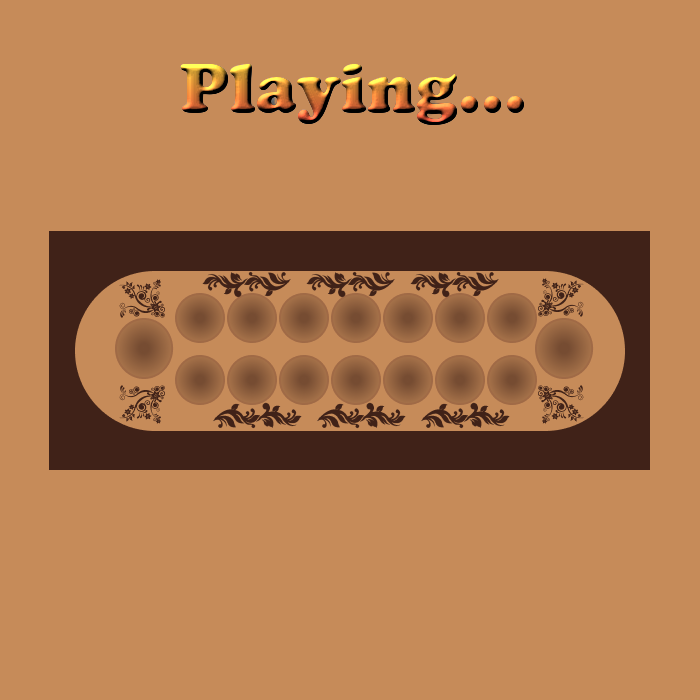
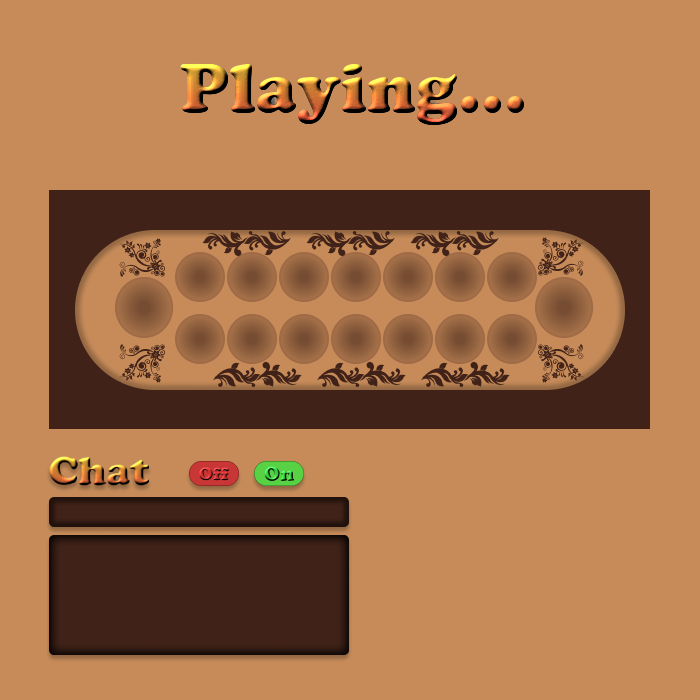
improve gui for chatting

diff --git a/game.py b/game.py
@@ -35,6 +35,7 @@ class Game:
 		self.width = w
 		self.height = h
 		self.animate = False
+		self.brown_color = (198, 139, 89)
 		self.bg_color = (134, 84, 57)
 		self.bg_contrast = (255, 255, 255)
 		self.on_color = (0, 255, 0)
@@ -92,16 +93,16 @@ class Game:
 			# menggambar lingkaran
 			# menggambar jumlah biji
 			if(self.animate == False):
-				self.me.draw(self.canvas.get_canvas(), self.bg_color, 200, 380, 52, 25, 2)
-				self.rival.draw(self.canvas.get_canvas(), self.bg_color, 200, 318, 52, 25, 2)
+				self.me.draw(self.canvas.get_canvas(), self.bg_color, 200, 340, 52, 25, 2)
+				self.rival.draw(self.canvas.get_canvas(), self.bg_color, 200, 278, 52, 25, 2)
 				for i in range(7):
-					self.canvas.draw_text(str(self.me.biji[i]), 32, 190 + (i * 52), 371, self.me.color)
+					self.canvas.draw_text(str(self.me.biji[i]), 32, 190 + (i * 52), 331, self.me.color)
 				for i in range(7):
-					self.canvas.draw_text(str(self.rival.biji[i]), 32, 190 + (i * 52), 309, self.rival.color)
-				self.canvas.draw_text(str(self.me.poin), 32, 554, 340, self.me.color)
-				self.canvas.draw_text(str(self.rival.poin), 32, 134, 340, self.rival.color)
-				pygame.draw.circle(self.canvas.get_canvas(), self.bg_color, (145, 348), 30, 2)
-				pygame.draw.circle(self.canvas.get_canvas(), self.bg_color, (565, 348), 30, 2)
+					self.canvas.draw_text(str(self.rival.biji[i]), 32, 190 + (i * 52), 269, self.rival.color)
+				self.canvas.draw_text(str(self.me.poin), 32, 554, 300, self.me.color)
+				self.canvas.draw_text(str(self.rival.poin), 32, 134, 300, self.rival.color)
+				pygame.draw.circle(self.canvas.get_canvas(), self.bg_color, (145, 308), 30, 2)
+				pygame.draw.circle(self.canvas.get_canvas(), self.bg_color, (565, 308), 30, 2)
 
 			if(flag == 1):
 				self.canvas.draw_background()
@@ -307,9 +308,10 @@ class Game:
 								flag = 3
 							pygame.mouse.set_cursor(pygame.SYSTEM_CURSOR_ARROW)
 				
-				self.chat_btn_on = pygame.draw.rect(self.canvas.get_canvas(), self.chat_color, pygame.Rect(150, 500, 100, 40), 1)
-				self.chat_btn_off = pygame.draw.rect(self.canvas.get_canvas(), self.chat_color, pygame.Rect(300, 500, 100, 40), 1)
-				
+				self.chat_btn_on = pygame.draw.rect(self.canvas.get_canvas(), (198, 139, 89), pygame.Rect(186, 458, 56, 31), 1)
+				self.chat_btn_off = pygame.draw.rect(self.canvas.get_canvas(), (198, 139, 89), pygame.Rect(251, 458, 56, 31), 1)
+				pygame.draw.circle(self.canvas.get_canvas(), self.chat_color, (165, 475), 5, 0)
+
 				if(event.type == pygame.MOUSEBUTTONDOWN and self.chat_btn_on.collidepoint(event.pos)):
 					self.chat_ongoing = False
 					self.chat_color = (255, 0, 0)
@@ -323,7 +325,7 @@ class Game:
 				if(self.chat_ongoing == True):
 					events = pygame.event.get()
 					self.chatinput.update(events)
-					self.canvas.get_canvas().blit(self.chatinput.get_surface(), (155, 550))
+					self.canvas.get_canvas().blit(self.chatinput.get_surface(), (57, 504))
 					if event.type == pygame.KEYDOWN:
 						if event.key == pygame.K_RIGHT:
 							chat_msg = self.chatinput.get_text()[1:]
@@ -335,9 +337,9 @@ class Game:
 							self.chatinput.clear_text()
 				chat_pickle = self.send_data('askchat:')
 				self.chat = pickle.loads(chat_pickle)
-				row = 570
+				row = 545
 				for i in range(len(self.chat)):
-					self.canvas.draw_text(str(self.chat[i]), 25, 155, row, (0, 0, 0))
+					self.canvas.draw_text(str(self.chat[i]), 25, 57, row, self.brown_color)
 					row += 20
 			elif(flag == 3): #winning condition
 				if(self.poin_not_sent):
@@ -453,22 +455,22 @@ class Game:
 	def ambil_biji(self, start_pos, giliran):
 
 		# clear biji before
-		self.me.draw(self.canvas.get_canvas(), self.bg_color, 200, 380, 52, 22, 0)
-		self.rival.draw(self.canvas.get_canvas(), self.bg_color, 200, 318, 52, 22, 0)
-		pygame.draw.circle(self.canvas.get_canvas(), self.bg_color, (145, 348), 27, 0)
-		pygame.draw.circle(self.canvas.get_canvas(), self.bg_color, (565, 348), 27, 0)
+		self.me.draw(self.canvas.get_canvas(), self.bg_color, 200, 340, 52, 22, 0)
+		self.rival.draw(self.canvas.get_canvas(), self.bg_color, 200, 278, 52, 22, 0)
+		pygame.draw.circle(self.canvas.get_canvas(), self.bg_color, (145, 308), 27, 0)
+		pygame.draw.circle(self.canvas.get_canvas(), self.bg_color, (565, 308), 27, 0)
 
 		# gambar kondisi awal
-		self.me.draw(self.canvas.get_canvas(), self.bg_color, 200, 380, 52, 25, 2)
-		self.rival.draw(self.canvas.get_canvas(), self.bg_color, 200, 318, 52, 25, 2)
+		self.me.draw(self.canvas.get_canvas(), self.bg_color, 200, 340, 52, 25, 2)
+		self.rival.draw(self.canvas.get_canvas(), self.bg_color, 200, 278, 52, 25, 2)
 		for i in range(7):
-			self.canvas.draw_text(str(self.me.biji[i]), 32, 190 + (i * 52), 371, self.me.color)
+			self.canvas.draw_text(str(self.me.biji[i]), 32, 190 + (i * 52), 331, self.me.color)
 		for i in range(7):
-			self.canvas.draw_text(str(self.rival.biji[i]), 32, 190 + (i * 52), 309, self.rival.color)
-		self.canvas.draw_text(str(self.me.poin), 32, 554, 340, self.me.color)
-		self.canvas.draw_text(str(self.rival.poin), 32, 134, 340, self.rival.color)
-		pygame.draw.circle(self.canvas.get_canvas(), self.bg_color, (145, 348), 30, 2)
-		pygame.draw.circle(self.canvas.get_canvas(), self.bg_color, (565, 348), 30, 2)
+			self.canvas.draw_text(str(self.rival.biji[i]), 32, 190 + (i * 52), 269, self.rival.color)
+		self.canvas.draw_text(str(self.me.poin), 32, 554, 300, self.me.color)
+		self.canvas.draw_text(str(self.rival.poin), 32, 134, 300, self.rival.color)
+		pygame.draw.circle(self.canvas.get_canvas(), self.bg_color, (145, 308), 30, 2)
+		pygame.draw.circle(self.canvas.get_canvas(), self.bg_color, (565, 308), 30, 2)
 		self.canvas.update()
 
 		banyak_biji = self.me.biji[start_pos]
@@ -550,22 +552,22 @@ class Game:
 	def ambil_biji_rival(self, start_pos, giliran):
 
 		# clear biji before
-		self.me.draw(self.canvas.get_canvas(), self.bg_color, 200, 380, 52, 22, 0)
-		self.rival.draw(self.canvas.get_canvas(), self.bg_color, 200, 318, 52, 22, 0)
-		pygame.draw.circle(self.canvas.get_canvas(), self.bg_color, (145, 348), 27, 0)
-		pygame.draw.circle(self.canvas.get_canvas(), self.bg_color, (565, 348), 27, 0)
+		self.me.draw(self.canvas.get_canvas(), self.bg_color, 200, 340, 52, 22, 0)
+		self.rival.draw(self.canvas.get_canvas(), self.bg_color, 200, 278, 52, 22, 0)
+		pygame.draw.circle(self.canvas.get_canvas(), self.bg_color, (145, 308), 27, 0)
+		pygame.draw.circle(self.canvas.get_canvas(), self.bg_color, (565, 308), 27, 0)
 
 		# gambar kondisi awal
-		self.me.draw(self.canvas.get_canvas(), self.bg_color, 200, 380, 52, 25, 2)
-		self.rival.draw(self.canvas.get_canvas(), self.bg_color, 200, 318, 52, 25, 2)
+		self.me.draw(self.canvas.get_canvas(), self.bg_color, 200, 340, 52, 25, 2)
+		self.rival.draw(self.canvas.get_canvas(), self.bg_color, 200, 278, 52, 25, 2)
 		for i in range(7):
-			self.canvas.draw_text(str(self.me.biji[i]), 32, 190 + (i * 52), 371, self.me.color)
+			self.canvas.draw_text(str(self.me.biji[i]), 32, 190 + (i * 52), 331, self.me.color)
 		for i in range(7):
-			self.canvas.draw_text(str(self.rival.biji[i]), 32, 190 + (i * 52), 309, self.rival.color)
-		self.canvas.draw_text(str(self.me.poin), 32, 554, 340, self.me.color)
-		self.canvas.draw_text(str(self.rival.poin), 32, 134, 340, self.rival.color)
-		pygame.draw.circle(self.canvas.get_canvas(), self.bg_color, (145, 348), 30, 2)
-		pygame.draw.circle(self.canvas.get_canvas(), self.bg_color, (565, 348), 30, 2)
+			self.canvas.draw_text(str(self.rival.biji[i]), 32, 190 + (i * 52), 269, self.rival.color)
+		self.canvas.draw_text(str(self.me.poin), 32, 554, 300, self.me.color)
+		self.canvas.draw_text(str(self.rival.poin), 32, 134, 300, self.rival.color)
+		pygame.draw.circle(self.canvas.get_canvas(), self.bg_color, (145, 308), 30, 2)
+		pygame.draw.circle(self.canvas.get_canvas(), self.bg_color, (565, 308), 30, 2)
 		self.canvas.update()
 
 		banyak_biji = self.rival.biji[start_pos]
@@ -719,17 +721,17 @@ class Game:
 		# self.canvas.screen.fill(self.bg_color, (0, 0, 500, 100))
 		# self.canvas.update_text(sisa_biji, 32, 0, 0, (self.bg_contrast))
 		if(player == 'me biji'):
-			pygame.draw.circle(self.canvas.get_canvas(), self.on_color, ((200 + pos * 52), 380), 22)
-			self.canvas.update_text(text, 32, 190 + (pos * 52), 371, self.me.color)
+			pygame.draw.circle(self.canvas.get_canvas(), self.on_color, ((200 + pos * 52), 340), 22)
+			self.canvas.update_text(text, 32, 190 + (pos * 52), 331, self.me.color)
 		elif(player == 'me poin'):
-			pygame.draw.circle(self.canvas.get_canvas(), self.on_color, (565, 348), 27)
-			self.canvas.update_text(text, 32, 554, 340, self.me.color)
+			pygame.draw.circle(self.canvas.get_canvas(), self.on_color, (565, 308), 27)
+			self.canvas.update_text(text, 32, 554, 300, self.me.color)
 		elif(player == 'rival biji'):
-			pygame.draw.circle(self.canvas.get_canvas(), self.on_color, ((200 + pos * 52), 318), 22)
-			self.canvas.update_text(text, 32, 190 + (pos * 52), 309, self.rival.color)
+			pygame.draw.circle(self.canvas.get_canvas(), self.on_color, ((200 + pos * 52), 278), 22)
+			self.canvas.update_text(text, 32, 190 + (pos * 52), 269, self.rival.color)
 		else:
-			pygame.draw.circle(self.canvas.get_canvas(), self.on_color, (145, 348), 27)
-			self.canvas.update_text(text, 32, 134, 340, self.rival.color)
+			pygame.draw.circle(self.canvas.get_canvas(), self.on_color, (145, 308), 27)
+			self.canvas.update_text(text, 32, 134, 300, self.rival.color)
 
 		self.canvas.update()
 
